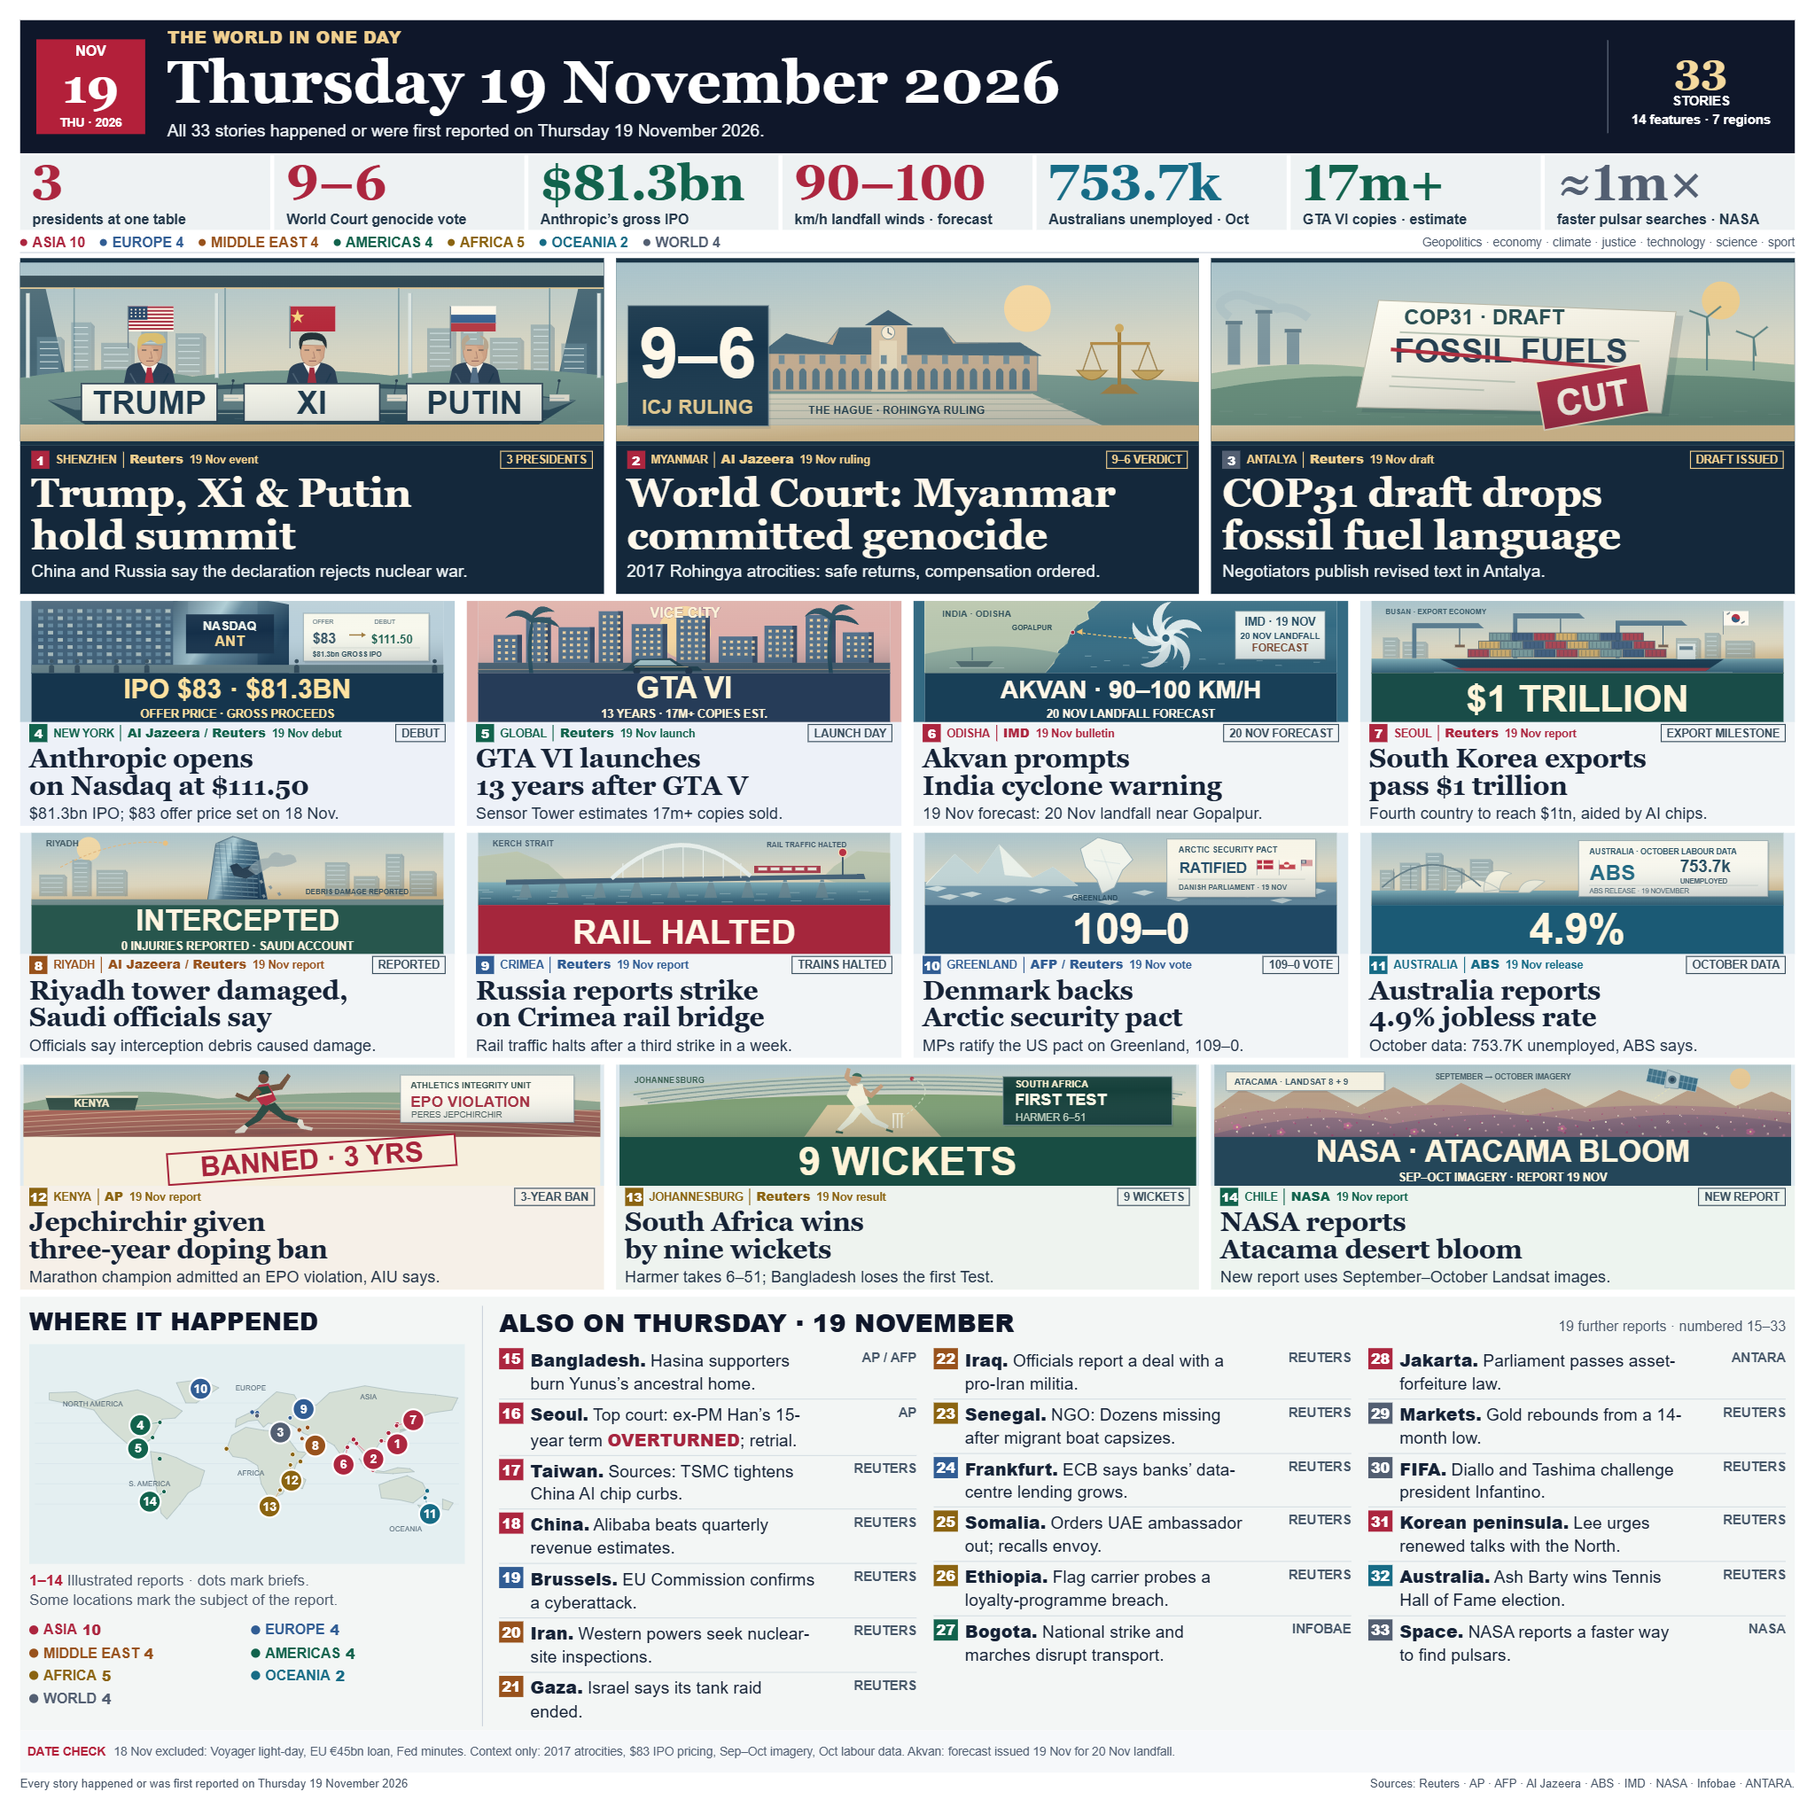
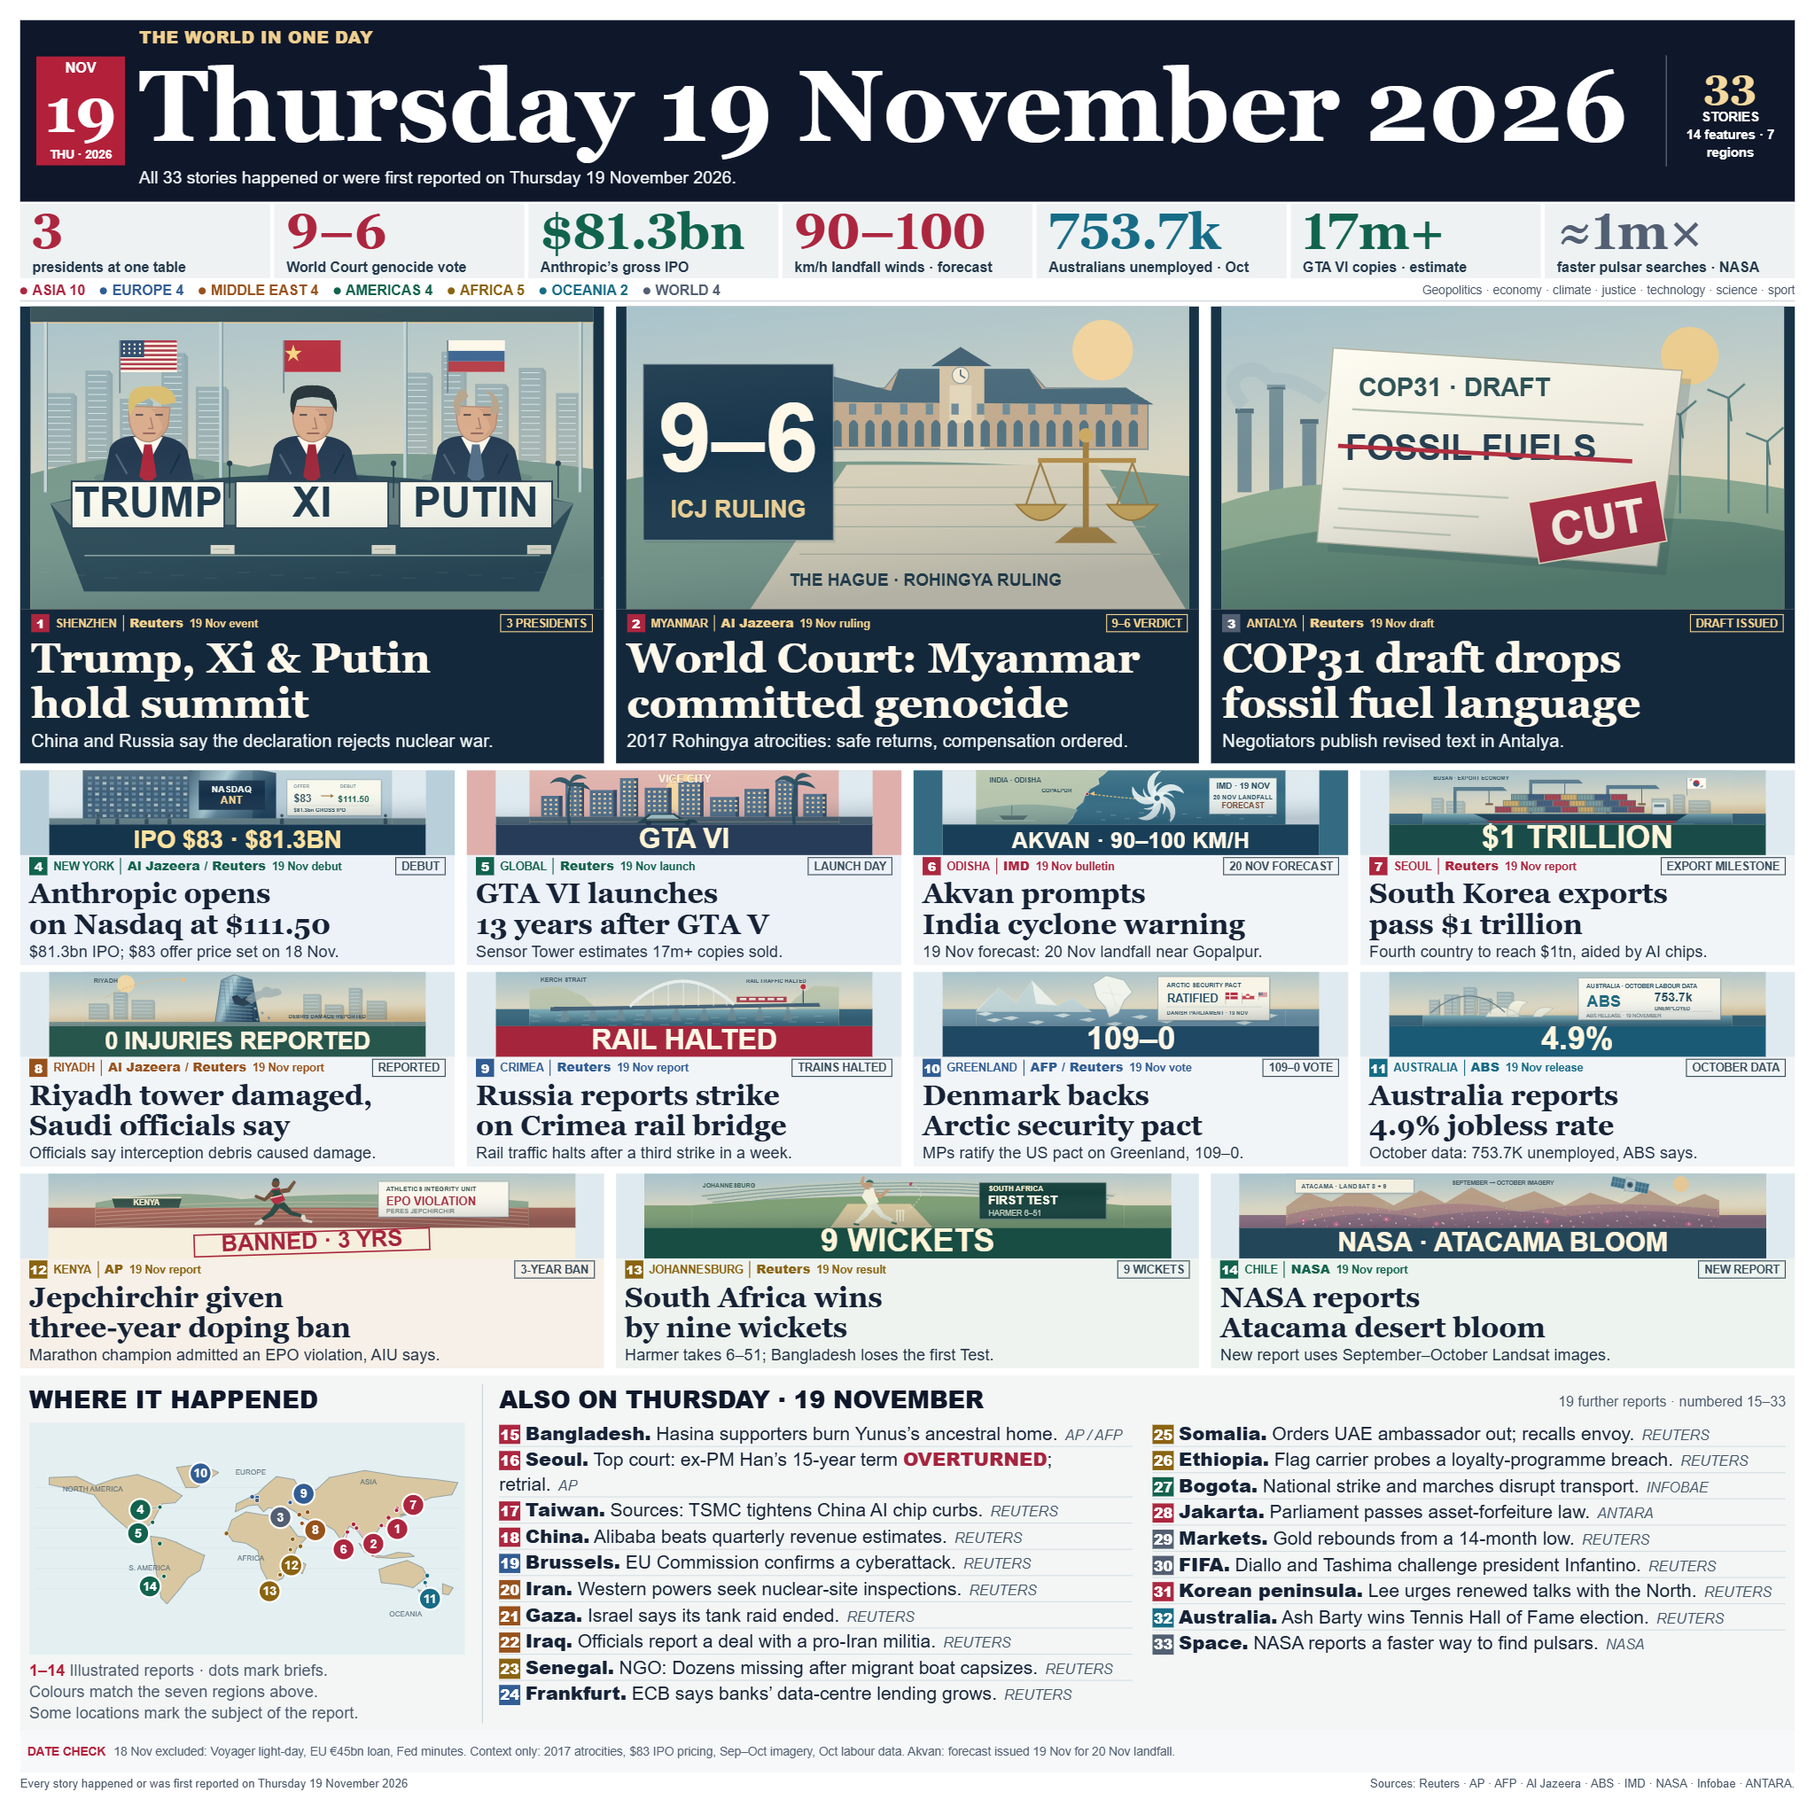
Improve date hierarchy and two-column news briefs

diff --git a/render.html b/render.html
@@ -9,13 +9,13 @@
 *{box-sizing:border-box}
 html,body{margin:0;width:1800px;height:1800px;background:var(--paper);color:var(--ink)}
 body{font-family:Arial,sans-serif;-webkit-font-smoothing:antialiased}
-.page{width:1800px;height:1800px;padding:20px;display:grid;grid-template-rows:132px 80px 24px 340px 230px 230px 230px 430px 42px 22px}
-.masthead{display:grid;grid-template-columns:108px minmax(0,1fr) 170px;gap:22px;background:var(--navy);color:#fff;padding:6px 16px}
+.page{width:1800px;height:1800px;padding:20px;display:grid;grid-template-rows:180px 80px 24px 460px 200px 200px 200px 352px 42px 22px}
+.masthead{display:grid;grid-template-columns:88px minmax(0,1fr) 112px;gap:14px;background:var(--navy);color:#fff;padding:6px 16px}
 .calendar{align-self:center;background:var(--red);text-align:center;padding:3px 0;color:#fff;font-size:14px;font-weight:700;line-height:1.25}
-.calendar strong{display:block;font:700 49px/1.05 Georgia,serif;margin:1px 0}
+.calendar strong{display:block;font:700 62px/1.05 Georgia,serif;margin:1px 0}
 .calendar span:last-child{font-size:12px}
 .publication{font-size:17px;font-weight:800;letter-spacing:0.01em;color:#f0cf8f;line-height:1.25;margin:0 0 1px}
-h1{font:700 60px/1.12 Georgia,serif;margin:0 0 4px;white-space:nowrap}
+h1{font:700 100px/1.14 Georgia,serif;margin:0 0 4px;white-space:nowrap}
 .subtitle{font-size:17px;line-height:1.25;margin:0;color:#eef3f6}
 .edition{align-self:center;padding:4px 0 4px 15px;color:#fff;text-align:center;font-size:13px;font-weight:700;line-height:1.4;border-left:1px solid #657181}
 .edition strong{font:700 42px/1.1 Georgia,serif;display:block;margin-bottom:2px;color:#f4d99e}
@@ -36,10 +36,10 @@ h1{font:700 60px/1.12 Georgia,serif;margin:0 0 4px;white-space:nowrap}
 .story[data-story="4"],.story[data-story="5"]{background:#edf1f8}
 .story[data-story="12"]{background:#f6f0e8}
 .story[data-story="13"]{background:#eef3ef}
-.art{height:120px;flex-shrink:0;background:var(--scene-bg);position:relative;overflow:hidden}
+.art{height:84px;flex-shrink:0;background:var(--scene-bg);position:relative;overflow:hidden}
 .art svg{width:100%;height:100%;display:block}
-.leads .art{height:186px;background:#183345}
-.third .art{height:120px}
+.leads .art{height:300px;background:#183345}
+.third .art{height:84px}
 .story-copy{padding:2px 9px;min-width:0;flex:1}
 .leads .story-copy{padding:5px 11px;background:#14283b;color:#fff8eb}
 .leads .locator{color:#f1cf8e}
@@ -51,35 +51,33 @@ h1{font:700 60px/1.12 Georgia,serif;margin:0 0 4px;white-space:nowrap}
 .citation time{font-size:11px;font-weight:700}
 .locator b{display:inline-flex;align-items:center;justify-content:center;min-width:18px;height:18px;background:var(--region);color:#fff;font-size:12px}
 .badge{margin-left:auto;display:inline-flex;flex:0 0 auto;align-items:center;justify-content:center;height:18px;padding:1px 5px;font-size:11px;font-weight:700;line-height:14px;color:#394e5d;border:1px solid currentColor;white-space:nowrap}
-h2{font:700 26px/1.05 Georgia,serif;margin:0 0 3px}
-.leads h2{font-size:40px;line-height:1.06;margin-bottom:3px}
-.third h2{font-size:26px;line-height:1.05}
+h2{font:700 28px/1.08 Georgia,serif;margin:0 0 3px}
+.leads h2{font-size:42px;line-height:1.08;margin-bottom:3px}
+.third h2{font-size:28px;line-height:1.08}
 .summary{font-size:16px;line-height:1.25;margin:0;color:#213246}
-.leads .summary{font-size:17px;line-height:1.25;color:#edf3f5}
+.leads .summary{font-size:18px;line-height:1.25;color:#edf3f5}
 .third .summary{font-size:16px}
 .bottom{display:grid;grid-template-columns:450px minmax(0,1fr);gap:16px;padding:9px;min-height:0;background:#f3f6f5}
 .map-panel{border-right:1px solid var(--rule);padding-right:17px;min-width:0}
 h3{font-size:24px;line-height:1.25;color:var(--navy);margin:0 0 8px;font-weight:800}
-.map{height:218px;background:#e4eff1}
+.map{height:230px;background:#e4eff1}
 .map svg{width:100%;height:100%;display:block}
-.map-note{font-size:15px;line-height:1.3;color:var(--muted);margin:6px 0 0}
-.map-legend{display:grid;grid-template-columns:repeat(2,minmax(0,1fr));gap:5px 8px;margin-top:12px;font-size:14px;font-weight:700;line-height:1.25}
-.map-legend span{display:flex;align-items:center;gap:5px;color:var(--region);white-space:nowrap}
-.map-legend i{display:inline-block;width:9px;height:9px;background:var(--region);border-radius:50%}
+.map-note{font-size:16px;line-height:1.3;color:var(--muted);margin:6px 0 0}
 .map-note strong{color:var(--red)}
 .brief-panel{min-width:0}
 .brief-heading{display:flex;align-items:center;justify-content:space-between}
-.brief-heading h3{font-size:25px;line-height:1.35}
+.brief-heading h3{font-size:23.5px;line-height:1.3;margin-bottom:5px}
 .brief-heading span{font-size:14px;color:var(--muted);line-height:1.25}
-.briefs{display:grid;grid-template-columns:repeat(3,minmax(0,1fr));column-gap:17px}
-.brief-column{display:grid;grid-auto-rows:max-content;row-gap:3px;min-width:0}
-.brief{display:grid;grid-template-columns:24px minmax(0,1fr) 90px;gap:7px;align-items:start;font-size:17px;line-height:1.35;min-width:0;margin:0;padding:0 0 2px;border-bottom:1px solid #d6dfe4}
+.briefs{display:grid;grid-template-columns:repeat(2,minmax(0,1fr));column-gap:20px}
+.brief-column{display:grid;grid-auto-rows:max-content;row-gap:0;min-width:0}
+.brief{display:block;font-size:18.5px;line-height:1.3;min-width:0;margin:0;padding:0;border-bottom:1px solid #d6dfe4}
 .brief:last-child{border-bottom:0}
 .brief b{font-weight:800}
-.brief .id{font-size:14px;font-weight:800;line-height:21px;color:#fff;background:var(--region);text-align:center}
+.brief .id{display:inline-block;min-width:21px;margin-right:5px;vertical-align:baseline;font-size:14px;font-weight:800;line-height:1.4;color:#fff;background:var(--region);text-align:center}
 .brief-status{color:#a6243e;font-weight:800}
-.brief-copy{min-width:0}
-.brief .source{font-size:13px;line-height:1.5;white-space:nowrap;font-weight:700;color:#465769;text-align:right}
+.brief-copy{display:inline;min-width:0}
+.brief-ending{white-space:nowrap}
+.brief .source{display:inline;margin-left:2px;font-size:14px;line-height:1.3;white-space:nowrap;font-weight:400;font-style:italic;color:#465769}
 .date-check{display:flex;align-items:center;gap:8px;background:#f6f8fa;color:#536174;font-size:12px;line-height:1.25;padding:3px 7px}
 .date-check strong{font-size:12px;color:var(--red);white-space:nowrap}
 .footer{display:flex;align-items:center;justify-content:space-between;gap:12px;font-size:11.5px;line-height:1.25;color:#465466}
@@ -102,7 +100,7 @@ h3{font-size:24px;line-height:1.25;color:var(--navy);margin:0 0 8px;font-weight:
   <section class="stories medium" aria-label="Security and livelihoods"><!-- THIRD --></section>
   <section class="stories third" aria-label="Sport and science"><!-- FOURTH --></section>
   <section class="bottom">
-    <div class="map-panel"><h3>WHERE IT HAPPENED</h3><div class="map"><!-- MAP --></div><p class="map-note"><strong>1–14</strong> Illustrated reports · dots mark briefs.<br>Some locations mark the subject of the report.</p><div class="map-legend"><!-- MAP_LEGEND --></div></div>
+    <div class="map-panel"><h3>WHERE IT HAPPENED</h3><div class="map"><!-- MAP --></div><p class="map-note"><strong>1–14</strong> Illustrated reports · dots mark briefs.<br>Colours match the seven regions above.<br>Some locations mark the subject of the report.</p></div>
     <div class="brief-panel"><div class="brief-heading"><h3>ALSO ON THURSDAY · 19 NOVEMBER</h3><span>19 further reports · numbered 15–33</span></div><div class="briefs"><!-- BRIEFS --></div></div>
   </section>
   <aside class="date-check"><strong>DATE CHECK</strong><span>18 Nov excluded: Voyager light-day, EU €45bn loan, Fed minutes. Context only: 2017 atrocities, $83 IPO pricing, Sep–Oct imagery, Oct labour data. Akvan: forecast issued 19 Nov for 20 Nov landfall.</span></aside>

diff --git a/AUDIT.md b/AUDIT.md
@@ -1,8 +1,30 @@
 # Review checkpoint · 19 November 2026
 
+## Local readability candidate compared with c691ae9
+
[1 lines of base64/hex data omitted]
+
+The latest public top three were fetched as PNGs, metadata and 300 px previews outside the repository under `G:\kits\news-image-20261119-samples\`. Native contact sheets retain the source pixel size; thumbnail sheets use exactly 300 px per image. No public image, account identity or external source code was imported into the deliverable. During the check, the baseline submission finished grading and became public rank 3, so the three samples and comparison sheets were refreshed to reflect that update.
+
+| Snapshot | Public development win rate | 90% interval | Canvas |
+| --- | --- | --- | --- |
+| Public #1 | 99.2344% | 99.0296–99.4392% | 1024 × 1024 |
+| Public #2 | 99.2290% | 99.0221–99.4359% | 1024 × 1024 |
+| Public #3, our c691ae9 baseline | 99.2254% | 99.0189–99.4319% | 1024 × 1024 |
+
+The top point-estimate lead over the baseline is **0.0090 percentage points**, with overlapping intervals. Individual rival verdicts and margins remain sealed until the deadline; the public data therefore do not establish which layout choice caused the ranking, or the margin of any direct matchup. All canvases are square, so aspect ratio does not explain the observed distinction.
+
+The repeated visual pattern is a date that occupies much more of the page width, taller first-row image compositions, and wider brief lines with compact trailing sources. The baseline used a 60 px authored date and a 340 px lead row. The candidate uses **100 px** and **460 px** respectively, retaining the dark masthead and 3 + 4 + 4 + 3 grid. The three lead scenes were recomposed vertically with larger people, an enlarged courthouse composition, and a full negotiating document. Supporting headlines rose from 26 to **28 px**. Large labels remain factual and use preserved vector proportions. Map land has stronger visual separation from its water background; its geographic anchors and pins are unchanged.
+
+The lower list moves from three narrow columns with dedicated source cells to **two wider columns with inline sources**, matching the observed reading rhythm. Its font rises from 17 to **18.5 px** on the authored canvas (9.67 to 10.52 px in the 1024 px output). A browser measurement finds **18 of 19 briefs on a single line and one on two lines**. All source text is retained, and each source is kept with the final word to prevent isolated credit lines. Duplicate regional counts under the map were removed; the complete seven-region row above remains. The contact sheets `comparison-after-native.png` and `comparison-after-300.png` stay outside the repository for review.
+
+Final verification: zero geometry problems across **252 HTML text runs**, 14 dated features, 33 source credits, the complete 1–33 sequence and the unchanged four row counts. Pairwise SVG text checks also pass. Two independent browser contexts produce identical master and entry bytes; two fresh offline Linux Node 22 containers and two local processes reproduce the committed PNG. The master fully decodes. Anti-slop reports PASS, severity 0, zero gating findings, 57 editorial advisories, and no external stylesheets. HTML contrast checks on 251 text nodes found a minimum **4.72:1** with zero failures. This candidate has no official jury score; it is held locally for review.
+
+The sections below retain earlier checkpoints.
+
 ## Square precision revision · 3 + 4 + 4 + 3
 
[2 lines of base64/hex data omitted]
 
 The 14 features remain arranged 3 + 4 + 4 + 3. Their image typography now includes white TRUMP / XI / PUTIN nameplates; a large 9–6 ICJ RULING panel; FOSSIL FUELS and a red CUT stamp; IPO $83 · $81.3BN; GTA VI with its 13-year gap and estimated sales; AKVAN · 90–100 KM/H; $1 TRILLION; the reported Riyadh interception; RAIL HALTED; 109–0; 4.9%; BANNED · 3 YRS; 9 WICKETS; and NASA · ATACAMA BLOOM. The image labels preserve forecast, estimate and older-imagery context where needed. The three lead image frames retain their proportions, and foreground flowers and a palace path were removed/reordered where they obscured the XI and ICJ labels.
 

diff --git a/README.md b/README.md
@@ -53,7 +53,7 @@ NASA's new Atacama report is dated 19 November. Its September and October satell
 
 The date banner excludes the 18 November Voyager milestone, EU €45bn loan proposal, and Fed minutes. Fiji's drought declaration is also excluded because the article dates the address to Wednesday. The IMD bulletin dated November 19 places Akvan offshore and forecasts a Friday landfall; the image labels that distinction. Australia's unemployment figure is October data released November 19, not a single-day unemployment measure.
 
-The three lead stories are followed by two rows of four cards and a final row of three, with 19 additional briefs in three columns. Lead headlines use 40 px type; supporting headlines use 26 px. Brief text is 17 px, up from 13.5 px in the preceding landscape design, and sources and numbering have separate aligned columns. The brief list includes the Han retrial order, Bogota's national strike, Jakarta's asset-forfeiture law and Somalia's expulsion order. Numbers, card labels and map pins share region colours. Forecast winds, October unemployment, earlier imagery and estimates remain labelled. The 300 px preview primarily conveys the date, key figures, illustrated labels and headline hierarchy; full supporting copy is intended for the larger image.
+The three lead stories are followed by two rows of four cards and a final row of three, with 19 additional briefs in two columns. The date uses 100 px type, lead headlines 42 px, and supporting headlines 28 px. Brief text is 18.5 px, with inline italic source credits; each credit stays with the final word of its report. This increases the effective line width and avoids isolated source-only lines. The brief list includes the Han retrial order, Bogota's national strike, Jakarta's asset-forfeiture law and Somalia's expulsion order. Numbers, card labels and map pins share region colours. Forecast winds, October unemployment, earlier imagery and estimates remain labelled. The 300 px preview primarily conveys the date, key figures, illustrated labels and headline hierarchy; full supporting copy is intended for the larger image.
 
 The COP31 illustration does not assert the requested $120bn aid deletion: that exact figure was not substantiated in the accessible November 19 reports checked. The Riyadh label states **0 injuries reported**, following the source, rather than broadening it to zero casualties.
 
